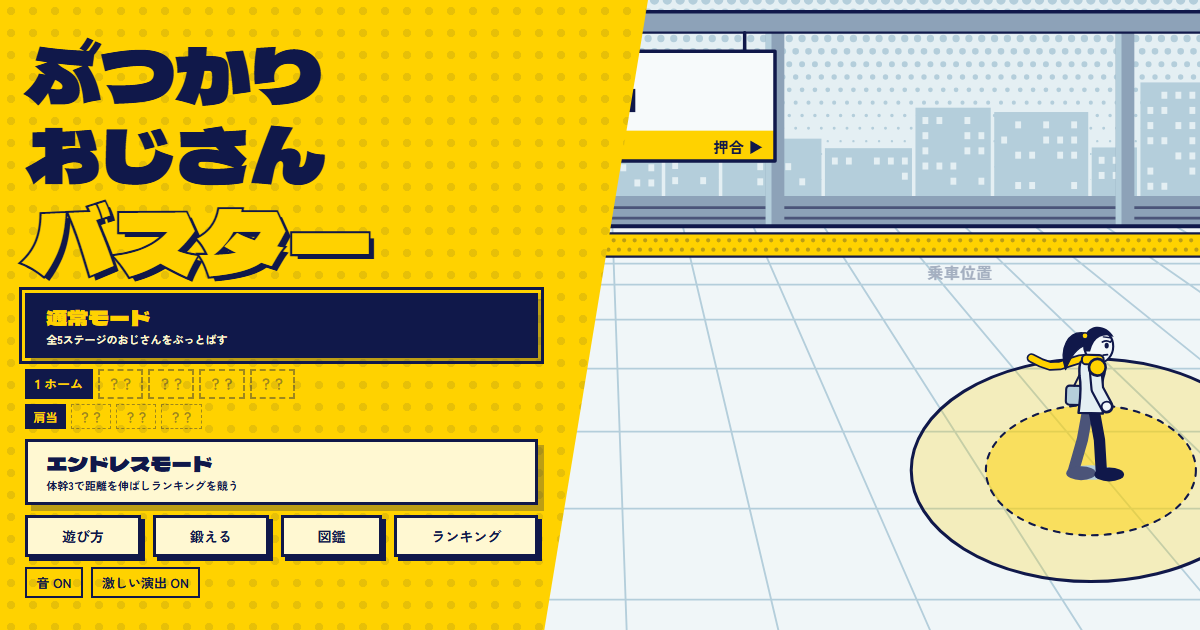
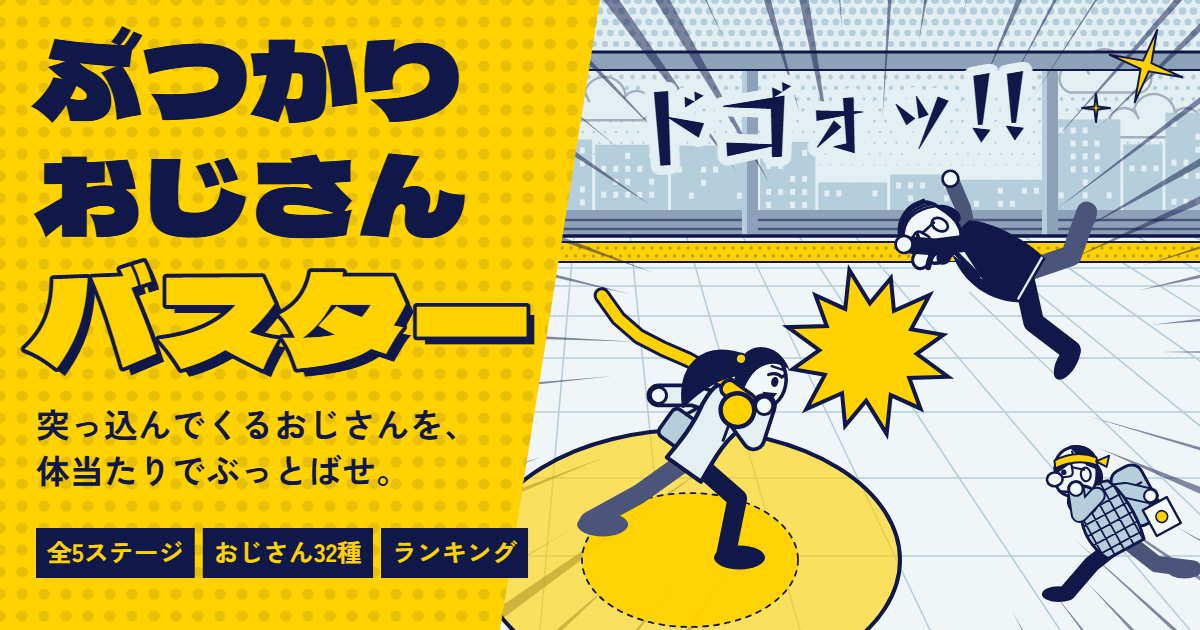
SNS 公開に向けて、結果の投稿ボタンとカード画像を足す
- リザルトに、結果を X に投稿するボタンを足す
- リンクカードの画像をゲームの部品で描き直す（tools/og.html）
- 新しいプレイヤーの上限を広げる（接続元 100 人、サイト全体 3000 人）
- フォントの読み込みを軽くし、遊び方に注意書きを足す

diff --git a/tools/og.html b/tools/og.html
@@ -1,0 +1,109 @@
+<!doctype html>
+<!-- public/og.png（SNS のリンクカード）の元。ゲームと同じ部品で 1200x630 に描く。作り直し方は README を参照。 -->
+<meta charset="utf-8">
+<title>共有画像</title>
+<link rel="stylesheet" href="https://fonts.googleapis.com/css2?family=Dela+Gothic+One&family=Reggae+One&family=Zen+Kaku+Gothic+New:wght@700&display=swap">
+<style>
+  html, body { margin: 0; background: #ffd200; }
+  canvas { display: block; }
+</style>
+<canvas id="og" width="1200" height="630"></canvas>
+<script src="../public/js/rules.js"></script>
+<script src="../public/js/art.js"></script>
+<script>
+  'use strict';
+  (async () => {
+    const TITLE = 'ぶつかりおじさんバスターおじさん全5ステージ32種ランキング';
+    const TAGLINE = '突っ込んでくるおじさんを、体当たりでぶっとばせ。';
+    await Promise.all([
+      document.fonts.load('100px "Dela Gothic One"', TITLE),
+      document.fonts.load('100px "Reggae One"', 'ドゴォッ!!キラーン'),
+      document.fonts.load('700 30px "Zen Kaku Gothic New"', TAGLINE + TITLE),
+    ]);
+
+    const { FONT } = Art;
+    const INK = '#10184A';
+    const SPOT = '#FFD200';
+    const W = 1200;
+    const H = 630;
+    const P = Art.PALETTES[0];
+    const c = document.getElementById('og').getContext('2d');
+    const view = { W, H, ft: 236, depth: 600, portrait: false };
+    const bg = Art.buildBackground(P, { seed: 3, theme: 'platform', sky: 'day', name: '', kana: '', prev: null, next: null }, view, 1);
+    c.drawImage(bg.back, 0, 0);
+    c.drawImage(bg.front, 0, 0);
+    c.lineCap = 'round';
+    c.lineJoin = 'round';
+
+    // 飛んでいくおじさんにかかる床の文字を消す
+    c.fillStyle = P.floor;
+    c.fillRect(920, 262, 84, 30);
+
+    // ぶつかった瞬間
+    const hitX = 868;
+    const hitY = 352;
+    c.globalAlpha = 0.5;
+    Art.speedLines(c, INK, hitX, hitY, W, H, 56, 190, 11);
+    c.globalAlpha = 1;
+    Art.zoneRing(c, P, 690, 560, 210, 108, Rules.SQUASH, { hot: true });
+    Art.drawOjisan(c, P, { x: 1124, y: 622, dir: -1, s: 0.98, type: 'otaku', pose: 'charge', phase: 0.3 });
+    Art.burst(c, P, hitX, hitY, 84, 12, 0.3);
+    Art.drawPlayer(c, P, { x: 690, y: 566, dir: 1, s: 1.5, pose: 'tackle', time: 1.2, mass: 2 });
+    Art.drawOjisan(c, P, { x: 1016, y: 372, dir: -1, s: 1.22, type: 'normal', pose: 'fly', phase: 0.3, rot: 1.05, face: 'ko' });
+    Art.popText(c, 'ドゴォッ!!', 830, 118, 84, { font: FONT.manga, fill: INK, stroke: P.paper, rot: -0.06, lw: 18 });
+    Art.star(c, P, 1146, 66, 38, 0.3);
+    Art.star(c, P, 1096, 108, 14, 0);
+
+    // 題字の紙面
+    c.beginPath();
+    c.moveTo(0, 0);
+    c.lineTo(600, 0);
+    c.lineTo(500, H);
+    c.lineTo(0, H);
+    c.closePath();
+    c.fillStyle = SPOT;
+    c.fill();
+    c.save();
+    c.clip();
+    c.fillStyle = 'rgba(16, 24, 74, 0.1)';
+    for (let y = 0; y < H; y += 22) {
+      for (let x = 0; x < 620; x += 22) {
+        c.beginPath();
+        c.arc(x, y, 5.6, 0, Art.TAU);
+        c.fill();
+      }
+    }
+    c.restore();
+
+    c.textBaseline = 'alphabetic';
+    c.textAlign = 'left';
+    c.fillStyle = INK;
+    c.font = `108px ${FONT.display}`;
+    c.fillText('ぶつかり', 34, 122);
+    c.fillText('おじさん', 34, 238);
+    c.font = `126px ${FONT.display}`;
+    c.fillStyle = INK;
+    c.fillText('バスター', 38, 376);
+    c.strokeStyle = INK;
+    c.lineWidth = 8;
+    c.strokeText('バスター', 30, 368);
+    c.fillStyle = SPOT;
+    c.fillText('バスター', 30, 368);
+
+    c.fillStyle = INK;
+    c.font = `700 34px ${FONT.ui}`;
+    c.fillText('突っ込んでくるおじさんを、', 36, 438);
+    c.fillText('体当たりでぶっとばせ。', 36, 484);
+
+    let x = 36;
+    c.font = `700 25px ${FONT.ui}`;
+    for (const chip of ['全5ステージ', 'おじさん32種', 'ランキング']) {
+      const w = c.measureText(chip).width + 22;
+      c.fillStyle = INK;
+      c.fillRect(x, 528, w, 50);
+      c.fillStyle = SPOT;
+      c.fillText(chip, x + 11, 562);
+      x += w + 8;
+    }
+  })();
+</script>

diff --git a/public/css/style.css b/public/css/style.css
@@ -54,7 +54,7 @@ html, body {
 
 .screen { position: absolute; inset: 0; }
 /* ダブルタップの拡大で操作が遅れないようにする */
-button { touch-action: manipulation; }
+button, a { touch-action: manipulation; }
 
 /* ---- ボタン ---- */
 .btn {
@@ -258,6 +258,7 @@ h1 .buster {
 .result-rows dt { font-weight: 500; }
 .result-rows dd { margin: 0; font-variant-numeric: tabular-nums; }
 .result-actions { display: flex; flex-direction: column; gap: 12px; margin-top: 4px; }
+.share-btn { display: block; text-align: center; text-decoration: none; background: var(--spot); }
 
 /* ---- 強化と図鑑 ---- */
 .sheet {
@@ -301,7 +302,7 @@ h1 .buster {
 .preview { margin: 0; display: flex; flex-direction: column; gap: 8px; min-width: 0; }
 .preview canvas { width: 100%; max-width: 100%; height: auto; display: block; border: 3px solid var(--ink); }
 .preview figcaption { font-size: 14px; line-height: 1.6; font-weight: 500; }
-.preview figcaption b { font-weight: 900; font-variant-numeric: tabular-nums; }
+.preview figcaption b { font-weight: 700; font-variant-numeric: tabular-nums; }
 
 .shop-list { list-style: none; margin: 0; padding: 0; display: flex; flex-direction: column; gap: 10px; min-width: 0; }
 .shop-item {
@@ -394,6 +395,7 @@ h1 .buster {
 .guide-card canvas { display: block; width: 100%; max-width: 100%; height: auto; border-bottom: 3px solid var(--sign-ink); }
 .guide-card h4 { margin: 10px 12px 2px; font: 400 18px / 1.3 var(--display); }
 .guide-card p { margin: 0 12px 12px; font-size: 14px; font-weight: 500; line-height: 1.7; }
+.guide-note { margin: clamp(14px, 3vmin, 24px) 0 0; font-size: 13px; font-weight: 500; line-height: 1.7; }
 
 /* ---- ランキング ---- */
 .status { margin: 0; font-size: 14px; font-weight: 500; line-height: 1.6; }
@@ -504,13 +506,20 @@ h1 .buster {
   .mode-btn { align-items: center; }
   .mode-name { font-size: 15px; white-space: nowrap; }
   /* リザルトも同じ高さに収める */
+  #result { padding-block: 4px; }
+  .result-card { gap: 4px; }
   .result-top { padding-block: 4px; }
   #resultArt { width: 48px; height: 48px; }
   .result-card h2 { font-size: 24px; }
   .result-body { font-size: 12px; margin-top: 0; }
   .result-dist { font-size: 28px; }
   .result-rows { font-size: 12px; }
-  .result-actions { gap: 6px; margin-top: 0; }
+  /* もう一度遊ぶボタンと投稿ボタンを横に並べる */
+  .result-actions { display: grid; grid-template-columns: 1fr 1fr; gap: 6px; margin-top: 0; }
+  .result-actions .btn-row { grid-column: 1 / -1; }
+  #retryBtn { font-size: 15px; }
+  #retryBtn:has(+ .share-btn[hidden]) { grid-column: 1 / -1; }
+  .share-btn { display: flex; align-items: center; justify-content: center; }
 }
 
 @media (prefers-reduced-motion: reduce) {

diff --git a/public/js/game.js b/public/js/game.js
@@ -2188,13 +2188,19 @@
   }
 
   // リザルトの見出しと、結果に合わせた主人公の絵
-  function fillResultHead(kind, head, body, distance) {
+  function fillResultHead(kind, head, body, distance, brag) {
     resultLook = bgStage;
     $('result').dataset.kind = kind;
     $('resultHead').textContent = head;
     $('resultBody').textContent = body;
     $('resultDist').textContent = fmtDist(distance);
     $('resultCompare').textContent = Rules.compareDistance(distance / 1000);
+    // 結果を X に投稿するリンク。文面は投稿する前に本人が直せる。距離が 0 なら出さない。
+    const title = Rules.rankFor(distance / 1000).title;
+    const text = `${brag}おじさんを ${fmtDist(distance)} ぶっとばした！（称号：${title}）\n#ぶつかりおじさんバスター`;
+    const url = document.querySelector('link[rel="canonical"]').href;
+    $('shareBtn').hidden = distance <= 0;
+    $('shareBtn').href = `https://x.com/intent/post?text=${encodeURIComponent(text)}&url=${encodeURIComponent(url)}`;
     const cv = $('resultArt');
     const x = cv.getContext('2d');
     x.setTransform(1, 0, 0, 1, 0, 0);
@@ -2222,7 +2228,7 @@
       save.endlessLocal = save.endlessLocal.slice(0, 10);
       writeSave();
     }
-    fillResultHead('endless', 'リザルト', `エンドレスモード ／ ${run.stats.flown}人ぶっとばしました`, run.distance);
+    fillResultHead('endless', 'リザルト', `エンドレス ／ ${run.stats.flown}人ぶっとばしました`, run.distance, 'エンドレスモードで、');
     renderResultRows = () => fillRows([
       ['称号', rank.title],
       ['レベル', `${run.level}`],
@@ -2273,6 +2279,7 @@
       cleared ? 'クリア!' : 'ゲームオーバー',
       cleared ? 'すべてのステージのおじさんをぶっとばしました' : `ステージ${st.line + 1} ${LINES[st.line].name} ／ ${st.name}で力尽きました`,
       run.distance,
+      cleared ? '全ステージクリア！' : `${st.name}まで進んで、`,
     );
     renderResultRows = () => fillRows([
       ['称号', rank.title],

diff --git a/public/index.html b/public/index.html
@@ -11,11 +11,16 @@
 <meta property="og:description" content="突っ込んでくるおじさんに、タイミングよく体当たりを返してぶっとばすブラウザゲーム。距離でランキングを競おう。">
 <meta property="og:url" content="https://butsukari-ojisan-buster.kirakun.com/">
 <meta property="og:image" content="https://butsukari-ojisan-buster.kirakun.com/og.png">
+<meta property="og:image:width" content="1200">
+<meta property="og:image:height" content="630">
+<meta property="og:image:alt" content="ぶつかりおじさんバスター。突っ込んでくるおじさんを、主人公が体当たりでぶっとばしている絵。">
 <meta property="og:locale" content="ja_JP">
 <meta name="twitter:card" content="summary_large_image">
 <link rel="canonical" href="https://butsukari-ojisan-buster.kirakun.com/">
 <link rel="icon" href="favicon.svg" type="image/svg+xml">
-<link rel="stylesheet" href="https://fonts.googleapis.com/css2?family=Dela+Gothic+One&family=Reggae+One&family=Zen+Kaku+Gothic+New:wght@500;700;900&display=swap">
+<link rel="preconnect" href="https://fonts.googleapis.com">
+<link rel="preconnect" href="https://fonts.gstatic.com" crossorigin>
+<link rel="stylesheet" href="https://fonts.googleapis.com/css2?family=Dela+Gothic+One&family=Reggae+One&family=Zen+Kaku+Gothic+New:wght@500;700&display=swap">
 <link rel="stylesheet" href="css/style.css">
 </head>
 <body>
@@ -164,6 +169,7 @@
       </form>
       <div class="result-actions">
         <button id="retryBtn" class="btn btn-main" type="button"></button>
+        <a id="shareBtn" class="btn share-btn" target="_blank" rel="noopener">結果を X に投稿する</a>
         <div class="btn-row">
           <button id="resultRanking" class="btn" type="button" hidden>ランキング</button>
           <button id="resultShop" class="btn" type="button">鍛える</button>

diff --git a/public/js/guide.js b/public/js/guide.js
@@ -634,6 +634,10 @@ const Guide = (() => {
       }
       grid.appendChild(list);
     }
+    const note = document.createElement('p');
+    note.className = 'guide-note';
+    note.textContent = 'このゲームはフィクションで、実在の人物や団体とは関係ありません。現実では体当たりせず、困ったときは駅員や警察に相談してください。';
+    grid.appendChild(note);
   }
 
   // イラストの文字。読み込み前に描くと別の書体になるので、先に読み込む。

diff --git a/README.md b/README.md
@@ -60,6 +60,14 @@ npm run deploy
 
 Cloudflare のダッシュボードでは、`kirakun.com` の「SSL/TLS」→「Edge Certificates」→「Always Use HTTPS」をオンにしておきます。
 
+## 共有画像を作り直す
+
+SNS のリンクカードの画像 `public/og.png` は `tools/og.html` から作ります。`tools/og.html` を Chrome で開いて確かめ、次のコマンドで書き出します（Git Bash で、`butsukari-ojisan` フォルダで実行します）。
+
+```bash
+"/c/Program Files/Google/Chrome/Application/chrome.exe" --headless=new --disable-gpu --hide-scrollbars --window-size=1200,630 --virtual-time-budget=8000 --screenshot="$(pwd -W)/public/og.png" "file:///$(pwd -W)/tools/og.html"
+```
+
 ## ランキングの運用
 
 上位の確認:
@@ -87,7 +95,7 @@ npx wrangler d1 execute butsukari-ojisan-buster --remote --command "DELETE FROM 
 - サーバーが遊び始めの時刻を覚え、経過時間に合わない距離を断ります。距離、人数、レベル、コンボの関係も確かめます（`worker/validate.mjs`）。
 - 1 回の遊びにつき、記録は 1 回しか送れません。
 - API は同じ接続元につき 1 分 60 回まで、遊びの開始は 1 分 20 回まで、記録の送信と名前の変更は 1 分 10 回までです。IPv6 は /48 全体でも 1 分 600 回までです。
-- 新しいプレイヤーは 1 日に、同じ接続元から 30 人、IPv6 の /48 全体で 300 人、サイト全体で 1000 人までです。
+- 新しいプレイヤーは 1 日に、同じ接続元から 100 人、IPv6 の /48 全体で 300 人、サイト全体で 3000 人までです。
 - 名前は使える文字を絞り、見えない文字、URL、禁止語、他の人と同じ名前を断ります。
 - 上位の一覧はキャッシュし、データは毎日 3:30 に掃除します（上位 3000 人より下で 30 日以上更新のない記録と、古い一時データ）。
 - プレイヤーの識別子は端末に保存した乱数で、サーバーにはハッシュだけを保存します。接続元はその日かぎりのハッシュで数え、翌日には消します。
